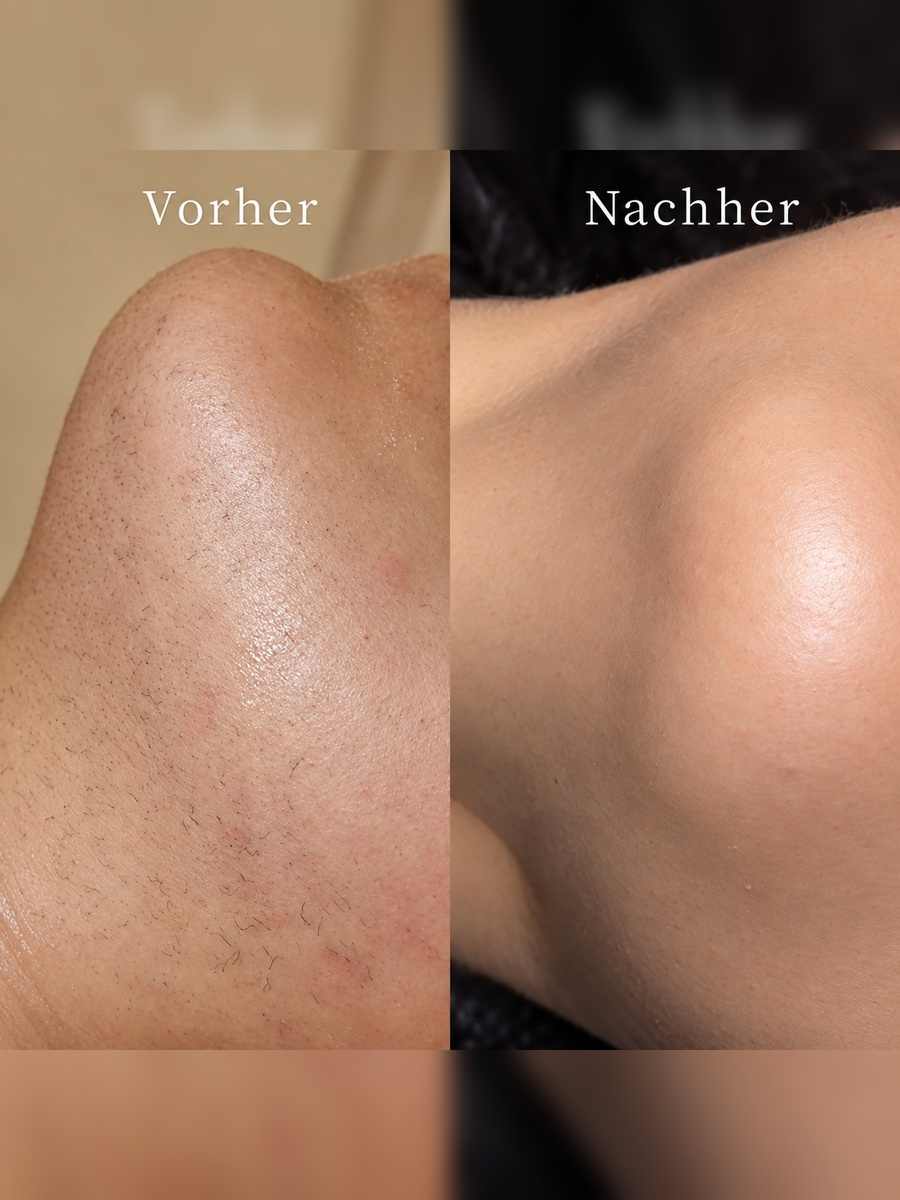
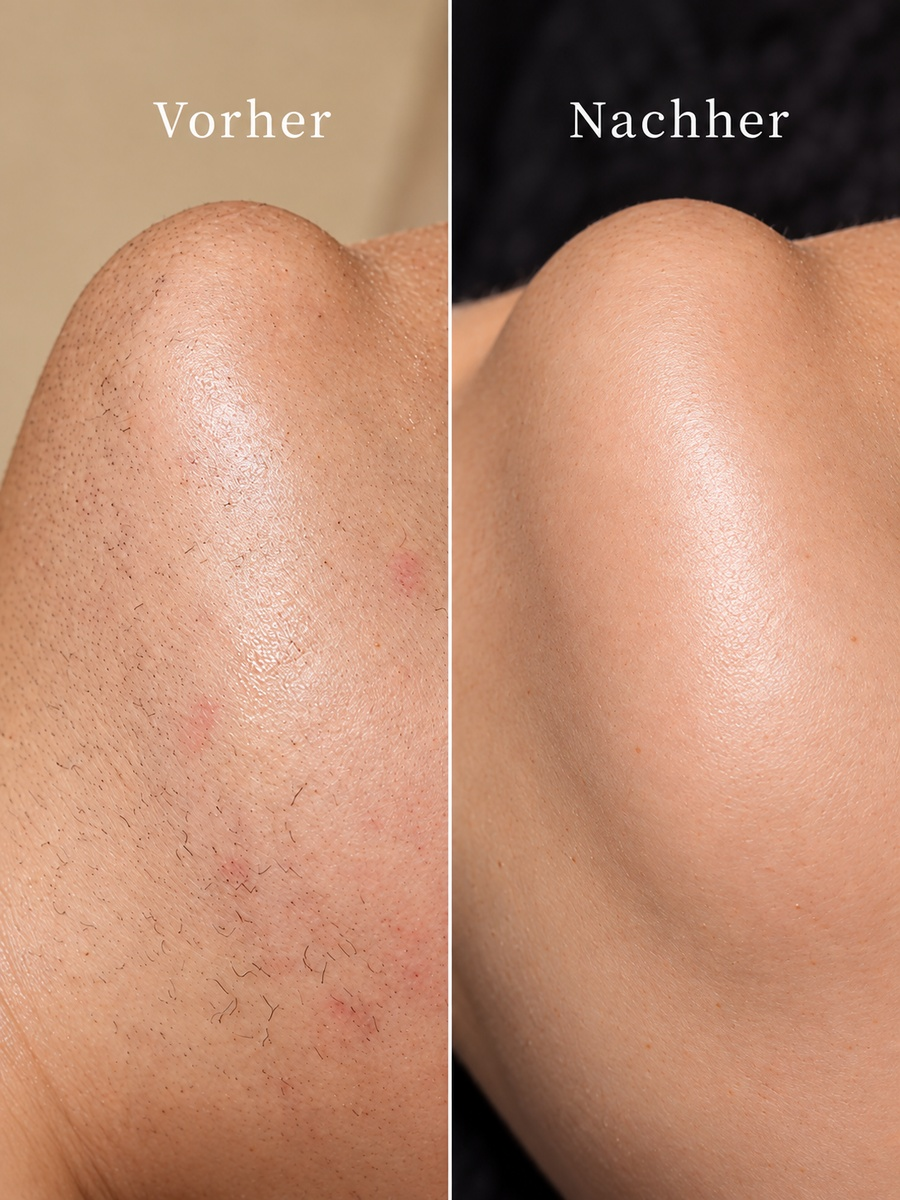
Add files via upload

diff --git a/styles.css b/styles.css
@@ -517,3 +517,19 @@ h1,h2,h3,h4{margin:0 0 16px;font-family:"Cormorant Garamond",Georgia,serif;font-
 
 .footer-social-pill .brand-social-icon{width:19px;height:19px;flex-basis:19px;border-radius:6px}
 .footer-social-pill .brand-social-whatsapp{border-radius:50%}
+
+
+/* Version 18 — before/after card: preserve the existing card size, never crop labels */
+.treatment-gallery .before-after-card{
+  aspect-ratio:3/4!important;
+  width:100%!important;
+  overflow:hidden!important;
+}
+.treatment-gallery .before-after-image{
+  width:100%!important;
+  height:100%!important;
+  object-fit:contain!important;
+  object-position:center center!important;
+  display:block!important;
+  background:#f8f2ee;
+}

diff --git a/index.html b/index.html
@@ -200,7 +200,7 @@
             <button class="text-link price-jump-link" type="button" data-price-tab="women">Alle Laserpreise ansehen →</button>
           </div>
           <div class="treatment-gallery reveal delay-1">
-            <figure><img src="before-after-clean.jpg" alt="Vorher-Nachher Ergebnis einer Haarentfernung am Kinn"></figure>
+            <figure class="before-after-card"><img class="before-after-image" src="before-after-clean.jpg?v=18" alt="Vorher-Nachher Ergebnis einer Haarentfernung"></figure>
             <figure><img src="diode-laser-clean.jpg" alt="Diodenlaser-Behandlung bei Lindoju Beauty"></figure>
           </div>
         </div>
